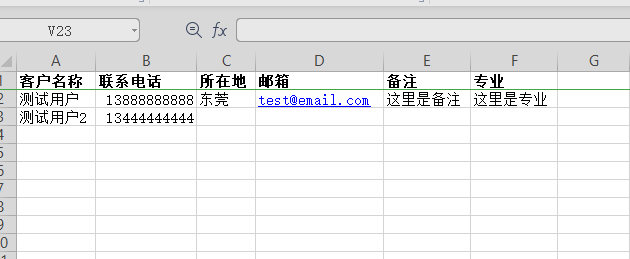
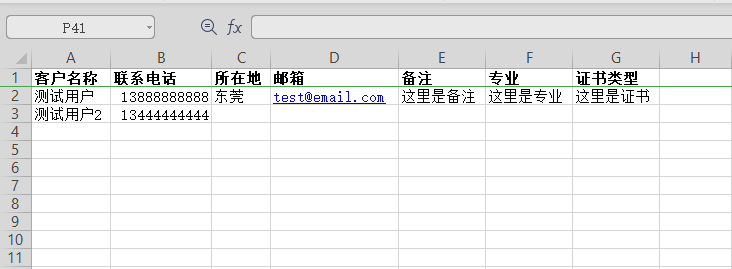
update

Changed region(s): [[0.0, 0.0, 1.0, 1.0]]

diff --git a/view/common/customer/index.html b/view/common/customer/index.html
@@ -144,6 +144,10 @@
                     <th lay-data="{field: 'province', title: '所在地', align: 'center', width: 100}"></th>
                     <th lay-data="{field: 'comment', title: '备注', align: 'center', width: 240}"></th>
                     <th lay-data="{field: 'cate_text', title: '类型', align: 'center', width: 100}"></th>
+                    {if $type === 2}
+                    <th lay-data="{field: 'professional', title: '专业', align: 'center', width: 150}"></th>
+                    <th lay-data="{field: 'certificate', title: '证书类型', align: 'center', width: 100}"></th>
+                    {/if}
                     {if ($module === 'admin')}
                     <th lay-data="{field: 'corporation', title: '所属公司', align: 'center', width: 300}"></th>
                     {/if}

diff --git a/app/common.php b/app/common.php
@@ -153,6 +153,8 @@ if (!function_exists('readExcel')) {
             $province = $sheet->getCellByColumnAndRow(3, $i)->getValue();
             $email = $sheet->getCellByColumnAndRow(4, $i)->getValue();
             $comment = $sheet->getCellByColumnAndRow(5, $i)->getValue();
+            $professional = $sheet->getCellByColumnAndRow(6, $i)->getValue();
+            $certificate = $sheet->getCellByColumnAndRow(7, $i)->getValue();
             if ($title && $phone) {
                 if (!$is_repeat_customer) {
                     $customer = \app\common\model\Customer::where([
@@ -168,6 +170,8 @@ if (!function_exists('readExcel')) {
                             'province' => trim($province ?? ''),
                             'email' => trim($email ?? ''),
                             'comment' => trim($comment ?? ''),
+                            'professional' => trim($professional ?? ''),
+                            'certificate' => trim($certificate ?? ''),
                         ]);
                         array_push($log, $a);
                     }
@@ -178,6 +182,8 @@ if (!function_exists('readExcel')) {
                         'province' => trim($province ?? ''),
                         'email' => trim($email ?? ''),
                         'comment' => trim($comment ?? ''),
+                        'professional' => trim($professional ?? ''),
+                        'certificate' => trim($certificate ?? ''),
                     ]);
                     array_push($log, $a);
                 }

diff --git a/app/home/controller/HbCall.php b/app/home/controller/HbCall.php
@@ -54,6 +54,10 @@ class HbCall extends \app\common\controller\HomeController
         $customerId = $this->request->param('customerId', 0);
         $customer = Customer::find($customerId);
 
+        if ($customer) {
+            $mobile = $customer->getData('phone');
+        }
+
         // 不是试用账号且欠费无法拨号
         if (!$this->userInfo->company->getData('is_test') && $this->userInfo->company->getData('balance') <= 0) {
             $this->returnData['msg'] = lang('您的余额已经不足，为了不影响呼叫，请联系管理员及时充值！');
@@ -80,10 +84,6 @@ class HbCall extends \app\common\controller\HomeController
             }
         }
 
-        if ($customer) {
-            $mobile = $customer->getData('phone');
-        }
-
         if (!$mobile || strlen($mobile) < 11 || !is_numeric($mobile)) {
             $this->returnData['msg'] = lang('Please enter the correct mobile phone number');
             $this->returnData['info'] = lang('Tips');
@@ -92,7 +92,7 @@ class HbCall extends \app\common\controller\HomeController
         }
 
         if ($this->userInfo->phone === '') {
-            $this->returnData['msg'] = '请前往个人资料中填写手机号</a>';
+            $this->returnData['msg'] = '请前往个人资料中填写手机号';
             $this->returnData['info'] = lang('Tips');
             $this->returnData['status'] = 0;
             return json($this->returnData);

diff --git a/app/common/traits/HbCallTrait.php b/app/common/traits/HbCallTrait.php
@@ -27,6 +27,10 @@ trait HbCallTrait
         $customerId = $this->request->param('customerId', 0);
         $customer = Customer::find($customerId);
 
+        if ($customer) {
+            $mobile = $customer->getData('phone');
+        }
+
         // 试用账号到期后无法拨号
         if ($this->userInfo->company->getData('is_test') && time() > $this->userInfo->company->getData('test_endtime')) {
             $this->returnData['msg'] = lang('At the end of the test time, please contact the administrator to recharge and try again');
@@ -50,11 +54,6 @@ trait HbCallTrait
                 $this->returnData['msg'] = lang('测试时间结束，请联系管理员开通正式账号后再拨打');
                 $this->returnApiData();
             }
-        }
-
-        if (!$mobile || strlen($mobile) < 11 || !is_numeric($mobile)) {
-            $this->returnData['msg'] = lang('Please enter the correct mobile phone number');
-            $this->returnApiData();
         }
 
         if ($this->userInfo->phone === '') {
